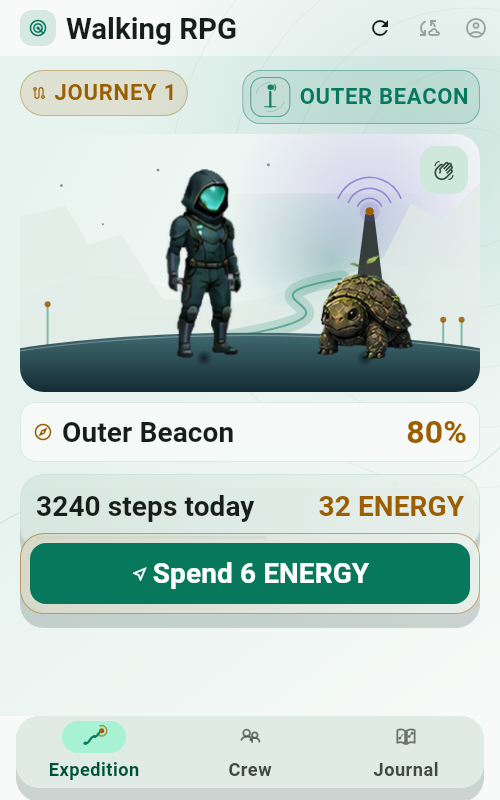
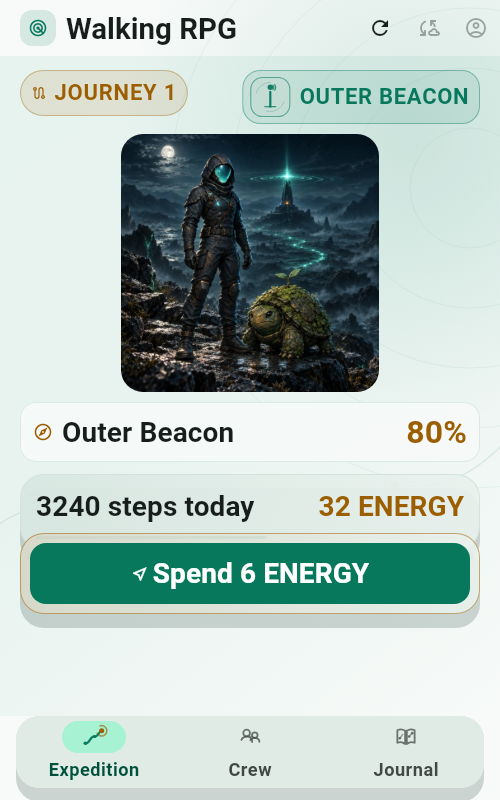
docs: retain cinematic Home renders and finalize visual review

Changed region(s): [[0.03, 0.1562, 0.96, 0.5], [0.78, 0.1562, 0.96, 0.25]]

diff --git a/mobile/test/home_scene_preview_test.dart b/mobile/test/home_scene_preview_test.dart
@@ -1,6 +1,5 @@
 // Render the real Home widget with synthetic accepted fixtures. These captures
 // support design review and are never physical-device evidence.
-import 'dart:convert';
 import 'dart:io';
 import 'dart:ui' as ui;
 
@@ -200,17 +199,6 @@ void main() {
         final File file = File('build/home-previews/${scenario.name}.png');
         await file.parent.create(recursive: true);
         await file.writeAsBytes(bytes.buffer.asUint8List());
-        if (const bool.fromEnvironment('HOME_SCENE_LOG_EXPORT')) {
-          final String encoded = base64Encode(bytes.buffer.asUint8List());
-          stdout.writeln('HOME_PREVIEW_BEGIN:${scenario.name}');
-          for (int start = 0; start < encoded.length; start += 800) {
-            final int end = (start + 800).clamp(0, encoded.length);
-            stdout.writeln(
-              'HOME_PREVIEW_DATA:${encoded.substring(start, end)}',
-            );
-          }
-          stdout.writeln('HOME_PREVIEW_END:${scenario.name}');
-        }
         image.dispose();
       });
     }, skip: !_capture);

diff --git a/docs/visuals/home-crew/README.md b/docs/visuals/home-crew/README.md
@@ -1,10 +1,11 @@
-# Home foreground review
+# Home cinematic scene review
 
-Actual Flutter widget captures for the Home redesign in PR #574, rendered from
-commit `108840407a463229a45ef3e72b8c4e2236e1340c` with Flutter 3.44.7.
-The capture job applies the repository formatter before rendering; subsequent
-format-only edits do not change these pixels. Fixtures contain synthetic steps,
-ENERGY and route progress, SDK Roboto/Material fonts, and no real account data.
+Actual Flutter widget captures for the cinematic Home redesign in PR #576,
+rendered from commit `357f1e62fd94967965df36b6f10d129bf1ef60cd` with Flutter
+3.44.7. Fixtures contain synthetic steps, ENERGY and route progress, SDK
+Roboto/Material fonts, and no real account data.
+
+![Home with the pilot and Spark](home-dark-spark-ru.png)
 
 | Preview | Locale / theme | Logical viewport | Text scale |
 | --- | --- | --- | --- |
@@ -15,15 +16,20 @@ ENERGY and route progress, SDK Roboto/Material fonts, and no real account data.
 | [Enlarged text](home-large-text-en.png) | EN / light | 500 × 800 | 2.0 |
 | [Reduced motion](home-reduced-motion-ru.png) | RU / dark | 390 × 844 | 1.0 |
 
-The first viewport puts the full-body crew on a common ground plane. Detailed
-activity and crew panels remain below it on ordinary phones; tall/wide layouts
-can show more information. The greeting control plays a finite reaction, while
-reduced motion holds a still. The screen remains scrollable at enlarged text.
+The existing signal-source landscape anchors the new detailed, realistic crew
+art. Each companion has a coordinated scene with the same pilot and environment.
+The whole square remains visible; enlarged text on compact phones scales the
+scene down so the primary action cannot cover the crew. Detailed activity and
+crew panels remain below the first ordinary-phone viewport.
 
-The mobile suite passed 681 tests, including crew reactions, offscreen and
-lifecycle behavior, snapshot fallbacks and existing authoritative commands.
-All six capture cases passed layout checks. Reproduce these images with the
-command in [the design system](../../DESIGN_SYSTEM.md#home-crew-scene).
+This revision uses still artwork with identical reduced-motion behavior.
+Natural character animation needs a separate high-resolution production pass.
+The mobile suite passed 683 tests, including accepted-identity changes,
+unknown-ID and legacy fallbacks and the existing authoritative commands.
+All six captures check that the scene stays above the primary action and both
+actors stay within the composition. Reproduce these images with the command in
+[the design system](../../DESIGN_SYSTEM.md#home-crew-scene). Artwork references
+and generation prompts are in [the asset directory](../../../mobile/assets/scenes/README.md).
 
 These are widget renders, not physical-device or product-owner acceptance.
 TASK-011 / issue #156 still owns that decision.

diff --git a/mobile/assets/characters/README.md b/mobile/assets/characters/README.md
@@ -52,8 +52,9 @@ hovers and glides, leading with the eyes and face plane while lateral facets and
 the curved tail/fan stabilize momentum. The three atlases share rendering,
 light logic and cell geometry without sharing silhouettes or locomotion.
 
-Home uses one non-looping idle pass for exact active `spark-v1`, `moss-v1` and
-`rune-v1` identities. The violet companion uses the current «Навигатор» naming
+Home v2 uses the detailed still scenes in `../scenes/` for exact active
+`spark-v1`, `moss-v1` and `rune-v1` identities. These atlases remain available
+for motion surfaces. The violet companion uses the current «Навигатор» naming
 while retaining the compatibility ID and `companion_rune_*` asset paths. Pet
 selection, evolution form, bond and active state still come from the accepted
 server snapshot; an atlas never chooses a pet, renames it or predicts
@@ -81,7 +82,7 @@ separate human identity: a practical hooded frontier suit, opaque turquoise
 navigation visor, grounded running and restrained hand-led gestures. Its full
 rules live in `docs/PILOT_ART_BIBLE.md`.
 
-Home may play one non-looping idle pass for the exact current universal pilot.
+Home v2 uses separate detailed still artwork for the current universal pilot.
 The account dossier and journal retain the static production portrait. The
 exact `navigator-v1` plus `pilot-scarf` presentation has its own atlas, so the
 cosmetic catalog preview can play the same single idle pass without dropping or
